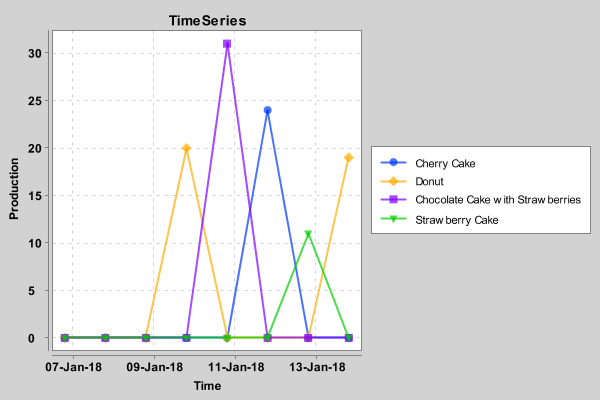
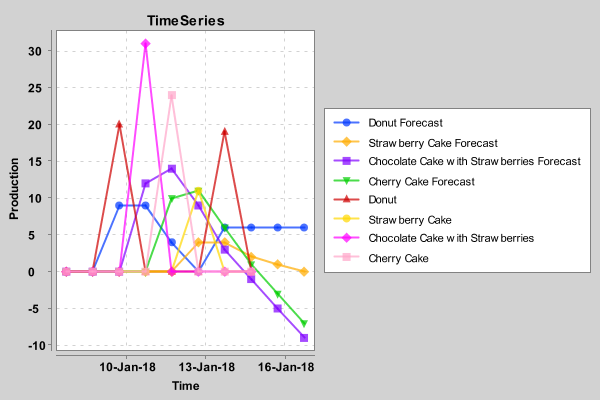
ForecastController draft + small corrections

Changed region(s): [[0.03, 0.06, 0.99, 0.99], [0.24, 0.03, 0.42, 0.09]]

diff --git a/src/main/java/com/modern/codes/lime/controller/ForecastController.java b/src/main/java/com/modern/codes/lime/controller/ForecastController.java
@@ -1,0 +1,73 @@
+package com.modern.codes.lime.controller;
+
+        import com.modern.codes.lime.order.Order;
+        import com.modern.codes.lime.report.*;
+        import com.modern.codes.lime.service.JobService;
+        import com.modern.codes.lime.tools.DBPopulator;
+        import org.springframework.beans.factory.annotation.Autowired;
+        import org.springframework.web.bind.annotation.GetMapping;
+        import org.springframework.web.bind.annotation.RequestMapping;
+        import org.springframework.web.bind.annotation.RestController;
+
+        import java.util.ArrayList;
+        import java.util.Date;
+
+@RestController()
+@RequestMapping(path="/forecast")
+public class ForecastController {
+
+    //TODO
+    //When getting request from front-end to generate page -> return the list of products (names)
+
+    //When user in front-end will select Products and Date to start series (e.g. today) and how many days back we get, and how many days are forecasted and email of receiver of report
+    //this means we send back to backend: List of Product ids, a Date, an Integer, another Integer, and a String
+    //we can call them LIST, DATE, NO_DAYS, NO_DAYS_FORECAST, EMAIL
+
+    //Then I get from DB data for the given product IDs
+    //ArrayList<TimeSeries> seriesL = tsp.Extract(jobService, DATE, NO_DAYS, LIST);
+
+    //generate forecast
+    /*  for (TimeSeries series : seriesL) {
+        TimeSeries fcst = Smoothing.calculateSmoothing(series, NO_DAYS_FORECAST);
+        fcst.setLabel(series.getLabel() + " Forecast");
+        seriesFL.add(fcst);
+    }
+*/
+    //then I generate plot from them
+    //String filename = draw.plot(seriesL, new TimeSeries(), DATE, "Production in the Past" + NO_DAYS + "Days and forecast for the next " + NO_DAYS_FORECAST);
+
+    //And I send it
+    //  ord.SendEmail(EMAIL,"Report Email form LIME", "Please Find Report Attached", filename);
+
+
+    @Autowired
+    JobService jobService;
+    @Autowired
+    DBPopulator pop;
+
+    @GetMapping(path = "/populate")
+    public String populate() {
+        pop.populate();
+        return "DB reset completed";
+    }
+
+    @GetMapping(path = "/test")
+    public String Test() {
+        final String email = "aleksandrabulka1@gmail.com";
+        final Integer days_past = 8;
+        final Integer days_forecast = 2;
+        ArrayList<TimeSeries> seriesFL = new ArrayList<TimeSeries>();
+        final ArrayList<TimeSeries> seriesL = TimeSeriesProduct.Extract(jobService, new Date(), days_past);
+
+       for (TimeSeries series : seriesL) {
+            TimeSeries fcst = Smoothing.calculateSmoothing(series, days_forecast);
+            fcst.setLabel(series.getLabel() + " Forecast");
+            seriesFL.add(fcst);
+        }
+
+        String filename = DrawSeries.plot(seriesL, seriesFL, new Date(),"Production in the Past" + days_past + "Days and forecast for the next " + days_forecast);
+        Order.SendEmail(email, "Report Email form LIME", "Please Find Report Attached", filename);
+
+        return "Email Sent";
+    }
+}

diff --git a/src/main/java/com/modern/codes/lime/controller/ReportController.java b/src/main/java/com/modern/codes/lime/controller/ReportController.java
@@ -46,8 +46,7 @@ public class ReportController {
     //TODO
     private static final Logger LOG = LoggerFactory.getLogger(ReportController.class);
 
-    @Autowired
-    TSGenerator tsgen;
+
     @Autowired
     IJobService jobService;
 
@@ -79,26 +78,16 @@ public class ReportController {
         LOG.info("Send request received product list: \n Date from: {} \n noDays: [] \n email: {} \n", productList, date, noDays, email);
 
         final ArrayList<TimeSeries> seriesL = TimeSeriesProduct.Extract(jobService, date, noDays);
-        final String filename = DrawSeries.plot(seriesL, new ArrayList<>(Collections.singletonList(new TimeSeries())), date);
+        final String filename = DrawSeries.plot(seriesL, new ArrayList<>(Collections.singletonList(new TimeSeries())), date, "Production in past "+noDays+" days");
         Order.SendEmail(email,"Report Email form LIME", "Please Find Report Attached", filename);
 
         return true;
     }
     @GetMapping(path = "/test")
     public String Test(){
-       // ArrayList<TimeSeries> seriesL = new ArrayList<TimeSeries>();
         final ArrayList<TimeSeries> seriesFL = new ArrayList<TimeSeries>();
-        //tsgen.loadSampleTSList(seriesL);
-
         final ArrayList<TimeSeries> seriesL = TimeSeriesProduct.Extract(jobService, new Date(), 8);
-//        for (TimeSeries series2:seriesL) {
-//            TimeSeries fcst = smoothing.calculateSmoothing(series2, 5);
-//            fcst.setLabel(series2.getLabel()+ " Forecast");
-//            seriesFL.add(fcst);
-//        };
-
-
-        final String filename = DrawSeries.plot(seriesL, seriesFL, new Date());
+        final String filename = DrawSeries.plot(seriesL, seriesFL, new Date(),"Production");
         Order.SendEmail("aleksandrabulka1@gmail.com","Report Email form LIME", "Please Find Report Attached", filename);
 
         return "Email Sent";

diff --git a/src/main/java/com/modern/codes/lime/report/DrawSeries.java b/src/main/java/com/modern/codes/lime/report/DrawSeries.java
@@ -12,10 +12,10 @@ import java.util.List;
 public class DrawSeries {
 
     public static String plot(final ArrayList<TimeSeries> timeSeriesList,
-                              final ArrayList<TimeSeries> timeSeriesForecastList, final Date toDay) {
+                              final ArrayList<TimeSeries> timeSeriesForecastList, final Date toDay, String header) {
         final XYChart chart = new XYChartBuilder().width(600)
                                                   .height(400)
-                                                  .title("TimeSeries")
+                                                  .title(header)
                                                   .xAxisTitle("Time")
                                                   .yAxisTitle("Production")
                                                   .build();
